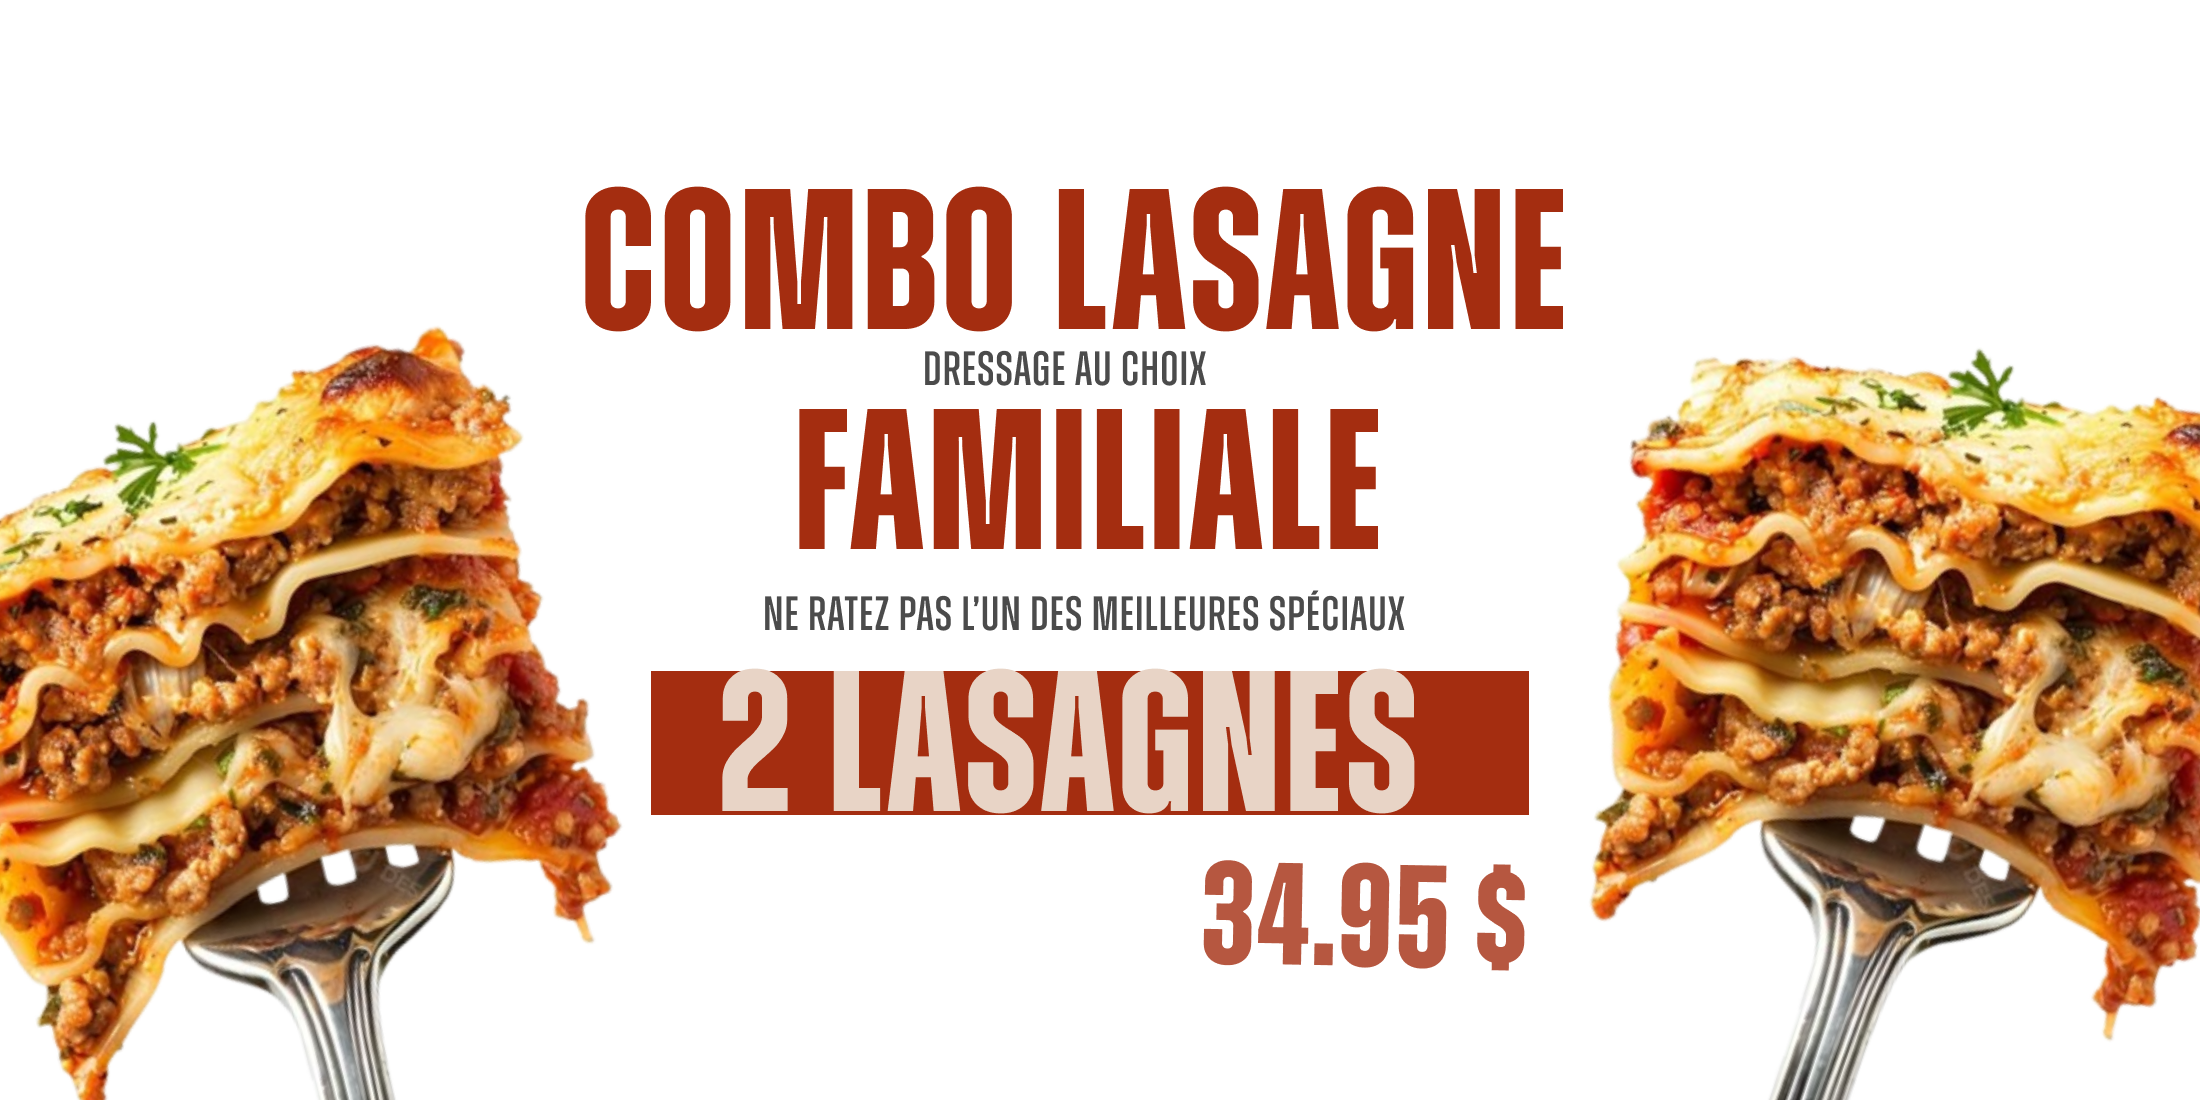
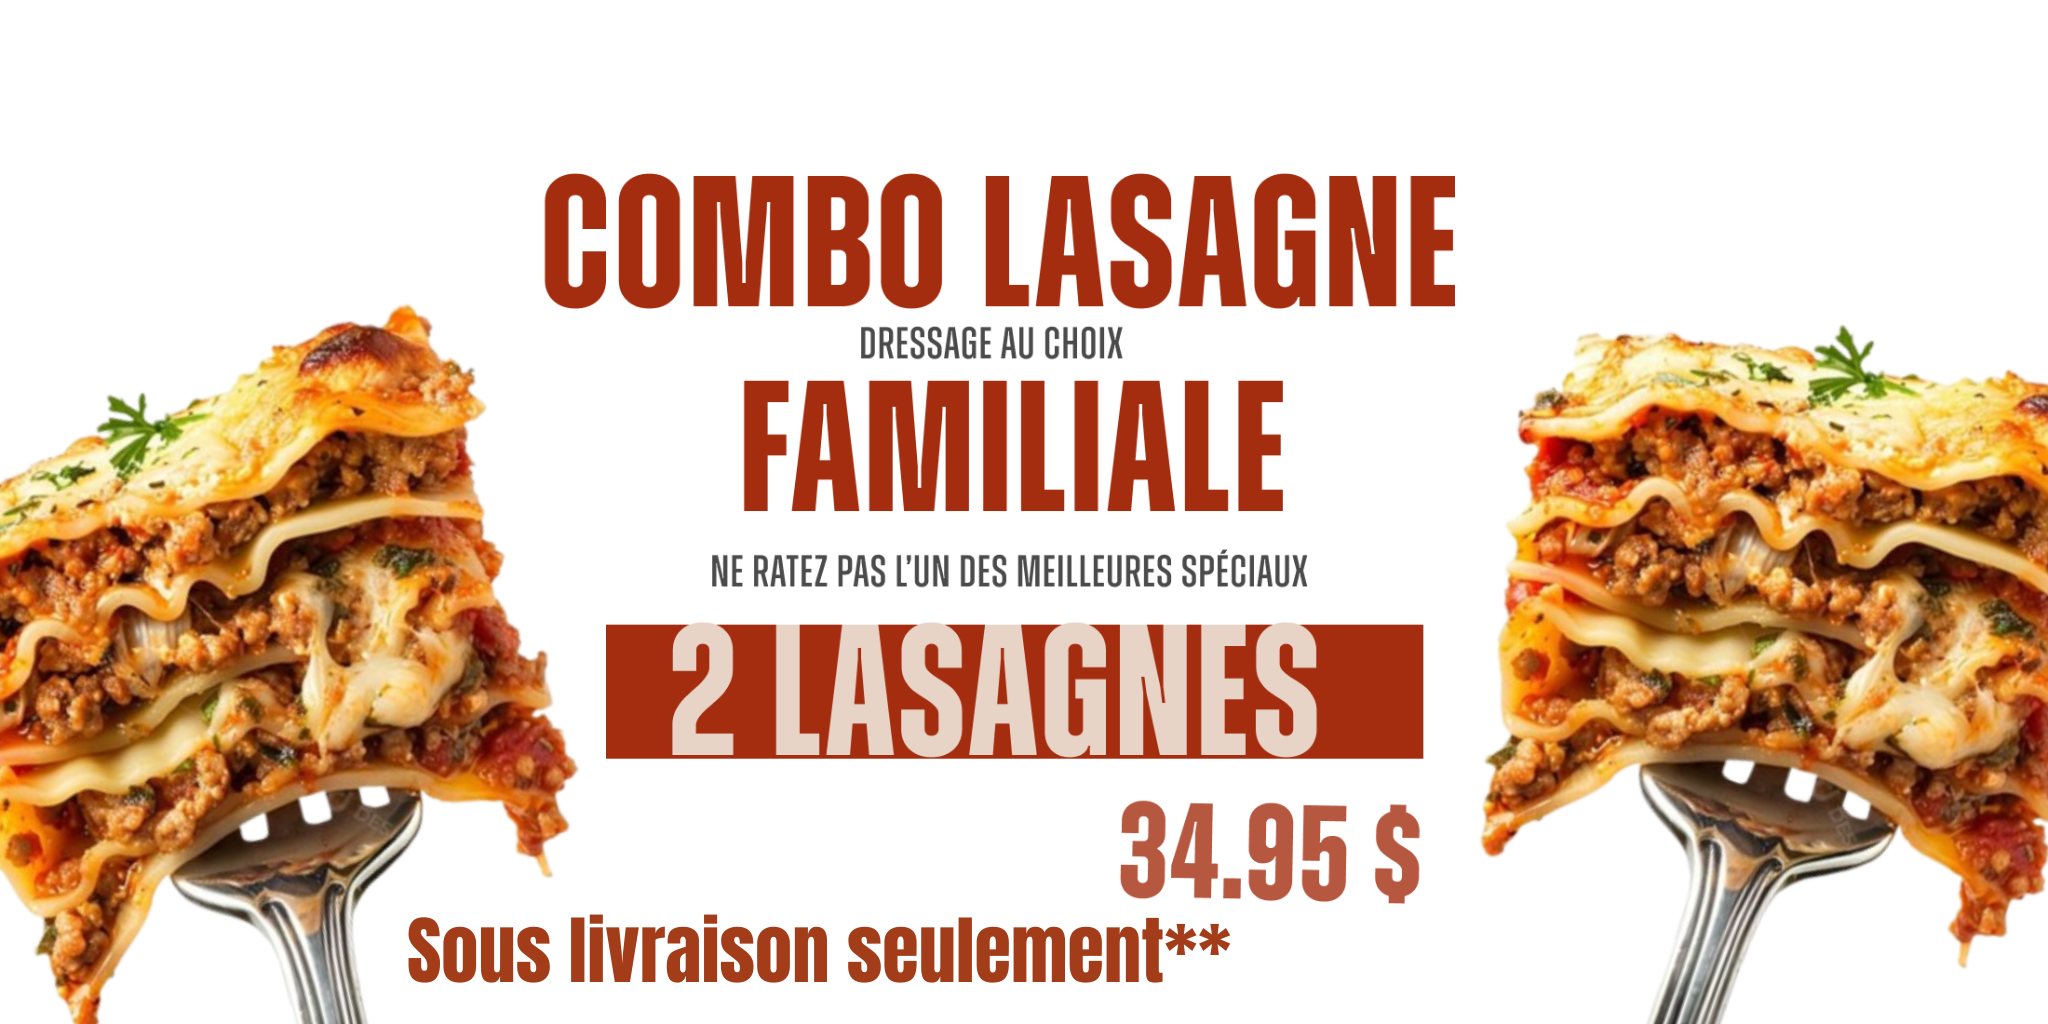
client feedback update

Changed region(s): [[0.1875, 0.875, 0.625, 0.9688]]

diff --git a/src/components/TopRightMenuButtons.tsx b/src/components/TopRightMenuButtons.tsx
@@ -1,0 +1,109 @@
+"use client";
+
+import { motion, AnimatePresence } from 'framer-motion';
+import { ReactElement, useState, useEffect, useRef } from 'react';
+import { assets } from '@/config/assets';
+import { ChevronDown } from 'lucide-react';
+
+export default function TopRightMenuButtons(): ReactElement {
+  const [isDropdownOpen, setIsDropdownOpen] = useState(false);
+  const dropdownRef = useRef<HTMLDivElement>(null);
+
+  // Close dropdown when clicking outside
+  useEffect(() => {
+    function handleClickOutside(event: MouseEvent) {
+      if (dropdownRef.current && !dropdownRef.current.contains(event.target as Node)) {
+        setIsDropdownOpen(false);
+      }
+    }
+
+    document.addEventListener('mousedown', handleClickOutside);
+    return () => {
+      document.removeEventListener('mousedown', handleClickOutside);
+    };
+  }, []);
+
+  return (
+    <motion.div
+      initial={{ opacity: 0, y: -20 }}
+      animate={{ opacity: 1, y: 0 }}
+      transition={{ 
+        type: "spring", 
+        stiffness: 260, 
+        damping: 20,
+        delay: 0.5 
+      }}
+      className="fixed top-6 right-6 z-40 flex-col gap-3 hidden md:flex"
+    >
+      {/* Menu Livraisons Button */}
+      <motion.a
+        href={assets.pdfs.menu}
+        target="_blank"
+        rel="noopener noreferrer"
+        className="group relative flex items-center justify-center px-6 py-3 bg-brand-red text-white rounded-lg shadow-lg hover:shadow-xl transition-all duration-300 focus:outline-none focus:ring-4 focus:ring-brand-red/30"
+        whileHover={{ scale: 1.05 }}
+        whileTap={{ scale: 0.95 }}
+        aria-label="Menu livraisons"
+      >
+        <span className="font-display text-lg uppercase tracking-wide">
+          Menu Livraisons
+        </span>
+        
+        {/* Tooltip */}
+        <div className="absolute bottom-full mb-2 left-1/2 transform -translate-x-1/2 px-3 py-2 bg-black text-white text-sm rounded-lg opacity-0 group-hover:opacity-100 transition-opacity duration-300 whitespace-nowrap pointer-events-none">
+          Voir le menu de livraison
+          <div className="absolute top-full left-1/2 transform -translate-x-1/2 border-4 border-transparent border-t-black"></div>
+        </div>
+      </motion.a>
+
+      {/* Menu Salle à Manger Dropdown */}
+      <div className="relative" ref={dropdownRef}>
+        <motion.button
+          onClick={() => setIsDropdownOpen(!isDropdownOpen)}
+          className="group relative flex items-center justify-center px-6 py-3 bg-white text-brand-red border-2 border-brand-red rounded-lg shadow-lg hover:shadow-xl transition-all duration-300 focus:outline-none focus:ring-4 focus:ring-brand-red/30"
+          whileHover={{ scale: 1.05 }}
+          whileTap={{ scale: 0.95 }}
+          aria-label="Menu salle à manger"
+          aria-expanded={isDropdownOpen}
+        >
+          <span className="font-display text-lg uppercase tracking-wide">
+            Menu Salle à Manger
+          </span>
+          <ChevronDown className={`ml-2 h-5 w-5 transition-transform ${isDropdownOpen ? 'rotate-180' : ''}`} />
+        </motion.button>
+
+        {/* Dropdown Menu */}
+        <AnimatePresence>
+          {isDropdownOpen && (
+            <motion.div
+              initial={{ opacity: 0, y: -10, scale: 0.95 }}
+              animate={{ opacity: 1, y: 0, scale: 1 }}
+              exit={{ opacity: 0, y: -10, scale: 0.95 }}
+              transition={{ duration: 0.2 }}
+              className="absolute top-full mt-2 right-0 bg-white border border-gray-200 rounded-lg shadow-xl overflow-hidden z-50"
+            >
+              <a
+                href={assets.pdfs.menu}
+                target="_blank"
+                rel="noopener noreferrer"
+                className="block px-6 py-3 text-brand-red hover:bg-brand-red hover:text-white transition-colors font-display text-lg uppercase tracking-wide"
+                onClick={() => setIsDropdownOpen(false)}
+              >
+                Menu
+              </a>
+              <a
+                href={assets.pdfs.kidsMenu}
+                target="_blank"
+                rel="noopener noreferrer"
+                className="block px-6 py-3 text-brand-red hover:bg-brand-red hover:text-white transition-colors font-display text-lg uppercase tracking-wide border-t border-gray-200"
+                onClick={() => setIsDropdownOpen(false)}
+              >
+                Menu Enfant
+              </a>
+            </motion.div>
+          )}
+        </AnimatePresence>
+      </div>
+    </motion.div>
+  );
+}

diff --git a/src/components/Sidebar.tsx b/src/components/Sidebar.tsx
@@ -186,19 +186,21 @@ export default function Sidebar({ isMobileOpen = false, onMobileClose }: Sidebar
                     <X className="h-6 w-6" />
                   </button>
 
-                  <div className="h-full overflow-y-auto p-6">
-                    <ul className="space-y-6">
+                  <div className="h-full overflow-y-auto p-6 flex flex-col">
+                    <ul className="space-y-6 flex-1">
                       <li>
                         <a href={assets.pdfs.menu} target="_blank" rel="noopener noreferrer" className="block font-display text-xl uppercase">
                           Menu — PDF
                         </a>
                       </li>
-                      <li>
-                        <a href={assets.pdfs.kidsMenu} target="_blank" rel="noopener noreferrer" className="block font-display text-xl uppercase">
-                          Menu Enfants — PDF
-                        </a>
-                      </li>
                     </ul>
+                    
+                    {/* Menu Enfant at the bottom */}
+                    <div className="mt-auto pt-6 border-t border-white/20">
+                      <a href={assets.pdfs.kidsMenu} target="_blank" rel="noopener noreferrer" className="block font-display text-lg uppercase text-white/90 hover:text-white transition-colors">
+                        Menu Enfant — PDF
+                      </a>
+                    </div>
                   </div>
                 </motion.aside>
               </motion.div>
@@ -270,30 +272,34 @@ export default function Sidebar({ isMobileOpen = false, onMobileClose }: Sidebar
                           transition={{ duration: 0.3 }}
                           className="overflow-hidden"
                         >
-                          <ul className="mt-4 ml-6 space-y-3">
-                            <li>
-                              <a 
-                                href={assets.pdfs.menu} 
-                                target="_blank" 
-                                rel="noopener noreferrer" 
-                                className="block text-xl uppercase text-brand-red hover:underline py-1"
-                                onClick={onMobileClose}
-                              >
-                                Menu — PDF
-                              </a>
-                            </li>
-                            <li>
+                          <div className="mt-4 ml-6 flex flex-col">
+                            <ul className="space-y-3 flex-1">
+                              <li>
+                                <a 
+                                  href={assets.pdfs.menu} 
+                                  target="_blank" 
+                                  rel="noopener noreferrer" 
+                                  className="block text-xl uppercase text-brand-red hover:underline py-1"
+                                  onClick={onMobileClose}
+                                >
+                                  Menu — PDF
+                                </a>
+                              </li>
+                            </ul>
+                            
+                            {/* Menu Enfant at the bottom */}
+                            <div className="mt-4 pt-3 border-t border-brand-red/20">
                               <a 
                                 href={assets.pdfs.kidsMenu} 
                                 target="_blank" 
                                 rel="noopener noreferrer" 
-                                className="block text-xl uppercase text-brand-red hover:underline py-1"
+                                className="block text-lg uppercase text-brand-red/80 hover:text-brand-red hover:underline py-1"
                                 onClick={onMobileClose}
                               >
-                                Menu Enfants — PDF
+                                Menu Enfant — PDF
                               </a>
-                            </li>
-                          </ul>
+                            </div>
+                          </div>
                         </motion.div>
                       )}
                     </AnimatePresence>

diff --git a/src/components/PromoDoubles.tsx b/src/components/PromoDoubles.tsx
@@ -18,13 +18,12 @@ function PromoCard({ title, subtitle, image, price }: PromoCardProps) {
       whileInView={{ opacity: 1, y: 0 }}
       viewport={{ once: true, margin: '-20% 0px' }}
       transition={{ duration: 0.5 }}
-      className="group relative h-72 overflow-hidden border border-white/10 bg-black shadow-none transition-all hover:-translate-y-1.5 hover:shadow-card md:h-96"
+      className="group relative h-72 overflow-hidden border border-white/10 bg-red shadow-none transition-all hover:-translate-y-1.5 hover:shadow-card md:h-96"
     >
       {/* Full-bleed image */}
-      <div className="absolute inset-0">
-        <Image src={image} alt="Promo visuel" fill sizes="(min-width: 768px) 50vw, 100vw" className="object-cover" />
+      <div className="absolute inset-0 bg-red">
+        <Image src={image} alt="Promo visuel" fill sizes="(min-width: 400px) 50vw, 100vw" className="object-contain bg-red" />
       </div>
-      <div className="absolute inset-0 bg-black/35" />
 
       {/* Overlay content */}
       <div className="relative z-10 p-6">
@@ -42,17 +41,11 @@ function PromoCard({ title, subtitle, image, price }: PromoCardProps) {
 
 export default function PromoDoubles(): ReactElement {
   return (
-    <section className="container mx-auto grid gap-6 px-4 py-10 md:grid-cols-2">
+    <section className="container mx-auto grid gap-6 px-4 py-10 md:grid-cols-1 bg-red">
       <PromoCard
-        title="Pots Lundi Mason"
-        image="/images/mojitos.png"
-        price="10.95"
-      />
-      <PromoCard
-        title="Heures Joyeuses"
-        subtitle="Lundi au Mercredi"
-        image="/images/drinks.png"
-        price="7.95"
+        title="Événements à venir"
+        image="/images/comingsoon.png"
+        price=""
       />
     </section>
   );

diff --git a/src/components/FloatingCallButton.tsx b/src/components/FloatingCallButton.tsx
@@ -1,9 +1,9 @@
 "use client";
 
-import { Phone } from 'lucide-react';
+import { Building } from 'lucide-react';
 import { motion } from 'framer-motion';
 import { ReactElement } from 'react';
-
+import Image from 'next/image';
 export default function FloatingCallButton(): ReactElement {
   return (
     <motion.div
@@ -19,12 +19,12 @@ export default function FloatingCallButton(): ReactElement {
     >
       <motion.a
         href="tel:+14504391711"
-        className="group relative flex items-center justify-center w-16 h-16 bg-brand-red text-white rounded-full shadow-lg hover:shadow-xl transition-all duration-300 focus:outline-none focus:ring-4 focus:ring-brand-red/30"
+        className="group relative flex items-center justify-center w-20 h-20 bg-brand-red text-white rounded-full shadow-lg hover:shadow-xl transition-all duration-300 focus:outline-none focus:ring-4 focus:ring-brand-red/30"
         whileHover={{ scale: 1.1 }}
         whileTap={{ scale: 0.95 }}
         aria-label="Appeler le restaurant"
       >
-        <Phone className="h-6 w-6" />
+        <Image src="/images/redCabin.png" alt="Appeler le restaurant" width={55} height={55} />
         
         {/* Pulse animation */}
         <motion.div

diff --git a/src/components/ClientLayout.tsx b/src/components/ClientLayout.tsx
@@ -4,6 +4,7 @@ import { useState, useEffect } from 'react';
 import LoadingScreen from './LoadingScreen';
 import Sidebar from './Sidebar';
 import FloatingButtons from './FloatingButtons';
+import TopRightMenuButtons from './TopRightMenuButtons';
 import { assets } from '@/config/assets';
 import type { ReactElement, ReactNode } from 'react';
 
@@ -124,6 +125,7 @@ export default function ClientLayout({ children }: ClientLayoutProps): ReactElem
         onHamburgerToggle={() => setIsMobileSidebarOpen(!isMobileSidebarOpen)}
         isHamburgerOpen={isMobileSidebarOpen}
       />
+      <TopRightMenuButtons />
     </div>
   );
 }

diff --git a/src/components/HeroBanner.tsx b/src/components/HeroBanner.tsx
@@ -41,7 +41,7 @@ export default function HeroBanner(): ReactElement {
     <section className="relative isolate pt-6 md:pt-0">
       <div className="relative w-full aspect-[2/1] overflow-hidden">
         <AnimatePresence mode="popLayout" custom={direction}>
-          <motion.div
+          <motion.div 
             key={assets.hero.slides[index].src}
             custom={direction}
             variants={variants}

diff --git a/src/config/assets.ts b/src/config/assets.ts
@@ -9,7 +9,7 @@ export const assets = {
     slides: [
       { src: "/images/pubb.svg", alt: "Publicité 1" },
       { src: "/images/Pub1.svg", alt: "Publicité 2" },
-      { src: "/images/pub3.svg", alt: "Publicité 3" },
+      { src: "/images/pub3.png", alt: "Publicité 3" },
       { src: "/images/pub.svg", alt: "Publicité 4" },
       // keep array flexible for future assets
     ],

diff --git a/src/lib/constants.ts b/src/lib/constants.ts
@@ -11,8 +11,7 @@ export const NAV_ITEMS: NavItem[] = [
   { label: 'Contact', href: '/contact' },
   // Small links (secondary)
   { label: 'Commande maintenant', href: '/#order' },
-  { label: 'Pots Lundi Mason', href: '/#mason' },
-  { label: 'Heures Joyeuses', href: '/#happy-hours' },
+  { label: 'Événements à venir', href: '/#events' },
 ];
 
 export const SOCIALS = [

diff --git a/src/components/index.ts b/src/components/index.ts
@@ -9,5 +9,6 @@ export { default as Footer } from './Footer';
 export { default as FloatingCallButton } from './FloatingCallButton';
 export { default as FloatingHamburgerButton } from './FloatingHamburgerButton';
 export { default as FloatingButtons } from './FloatingButtons';
+export { default as TopRightMenuButtons } from './TopRightMenuButtons';
 
 
